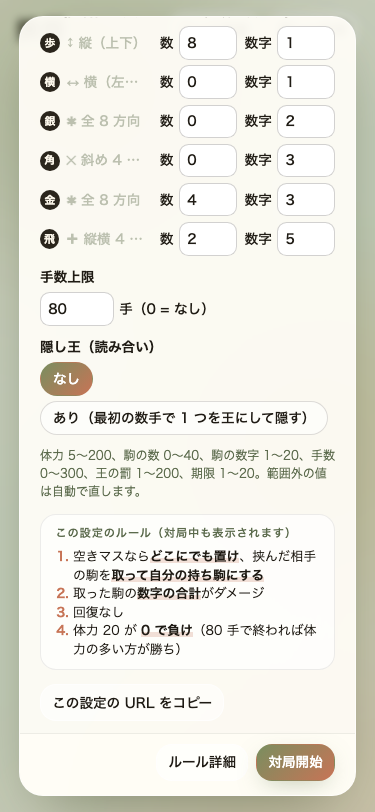
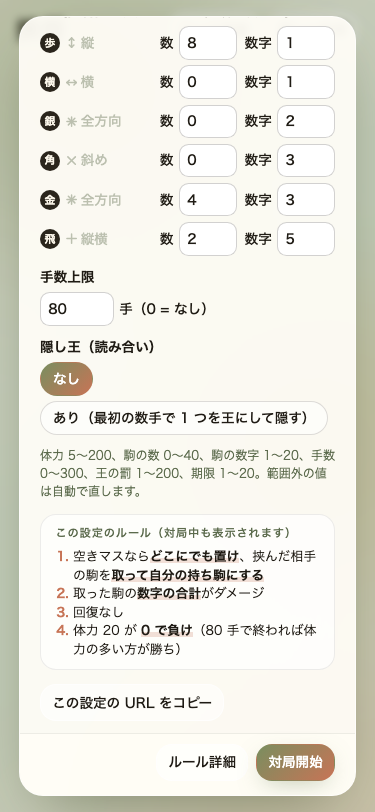
[修正] 全方向の駒（金・銀）では、置けないマスのお知らせに方向を添えない
「金は✱ 全 8 方向だけ挟める」と読めてしまうため、方向が限られる駒だけに添える。

diff --git a/web/src/ui/app.ts b/web/src/ui/app.ts
@@ -270,8 +270,9 @@ export class App {
     if (!isLegal(g, r, c, kind)) {
       // 裏返すルールで挟めない空きマスを押したときは理由を出す
       if (g.board[r][c] === null && g.rules.action === "flip") {
-        // 駒ごとの方向なら、選んでいる駒の方向も添える（他の駒なら返せることがある）
-        const reach = g.rules.dirs === "piece" ? `${PIECES[kind].name}は${dirMark(g.rules, kind)} ${REACH_MARK[PIECES[kind].reach].name}だけ挟める。` : "";
+        // 駒ごとの方向で、選んでいる駒の方向が限られるなら添える（他の駒なら返せることがある）
+        const limited = g.rules.dirs === "piece" && PIECES[kind].reach !== "all";
+        const reach = limited ? `${PIECES[kind].name}は${dirMark(g.rules, kind)} ${REACH_MARK[PIECES[kind].reach].name}だけ挟める。` : "";
         this.showToast(`${cellName(r, c)} に ${pieceLabel(g.rules, kind)} を置いても返せる駒がありません（${reach}● のマスに置けます）`);
       }
       this.clearFocus();
